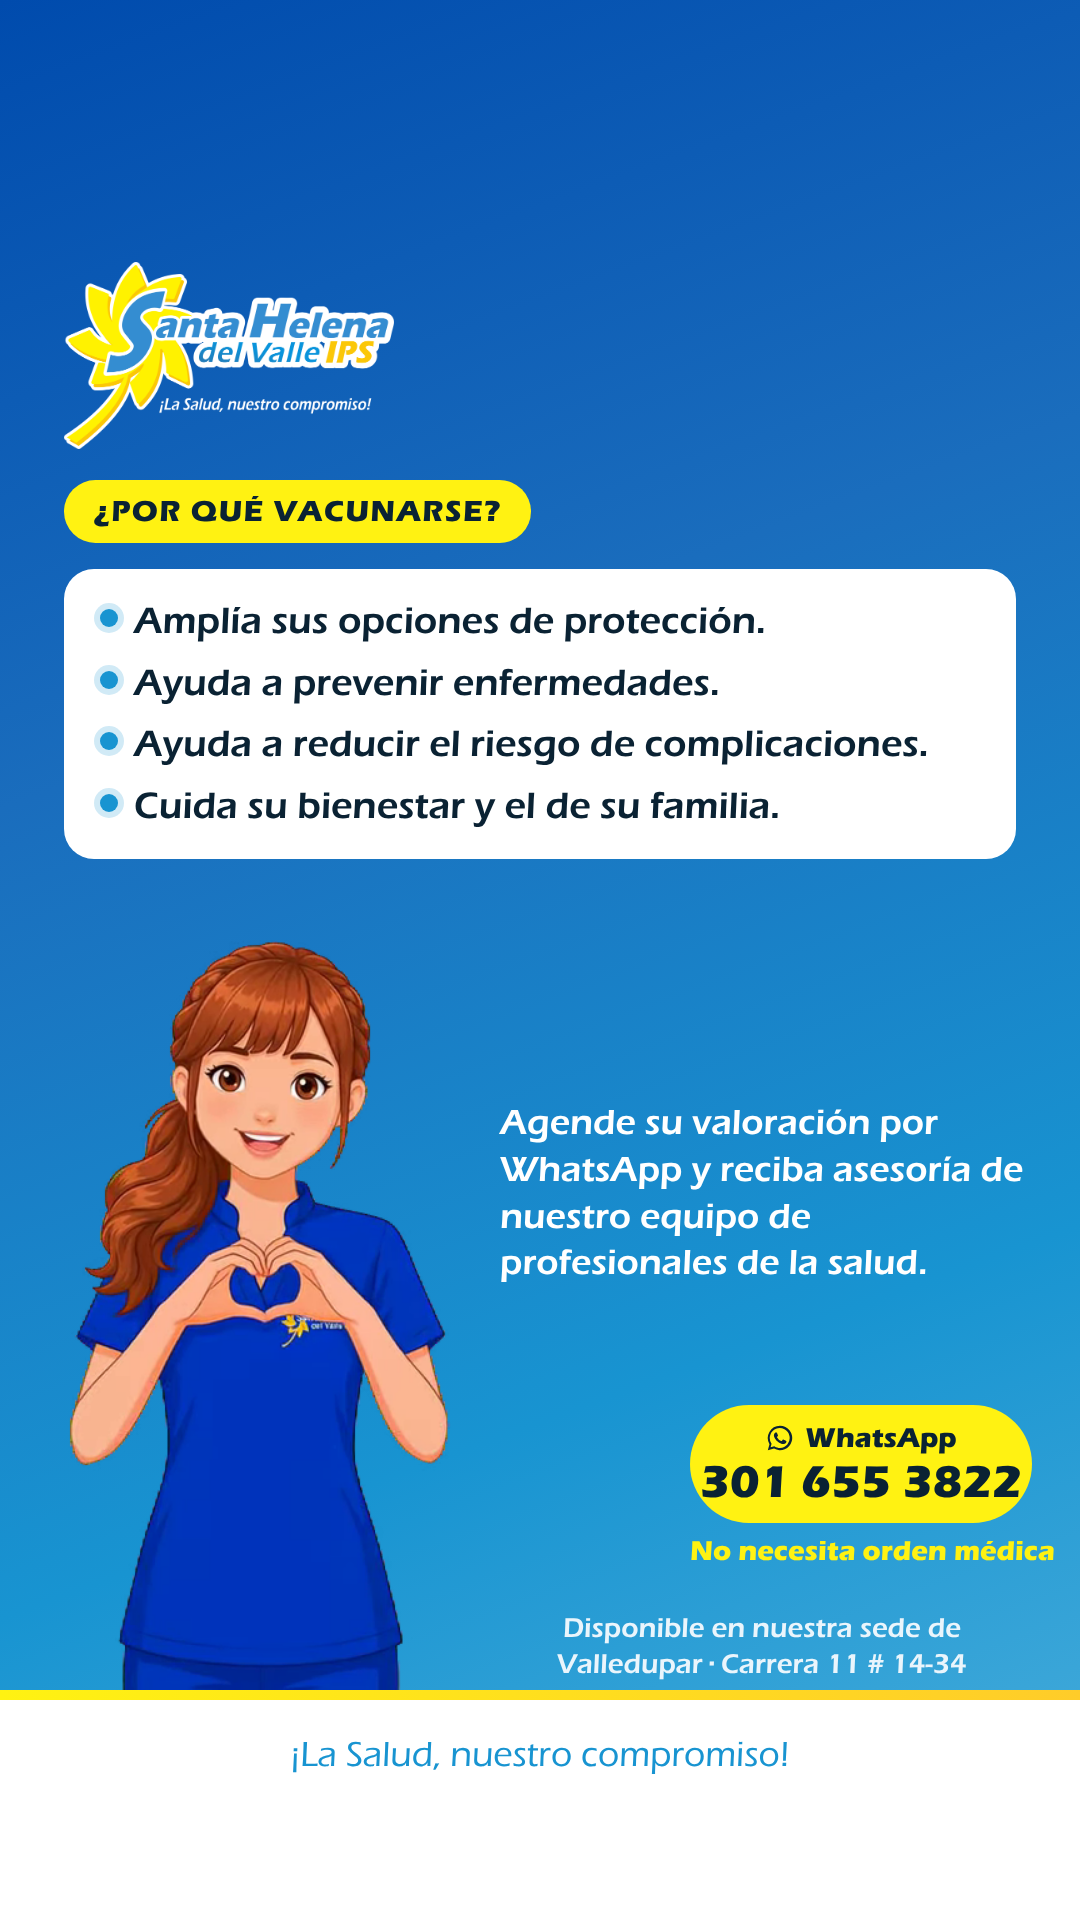
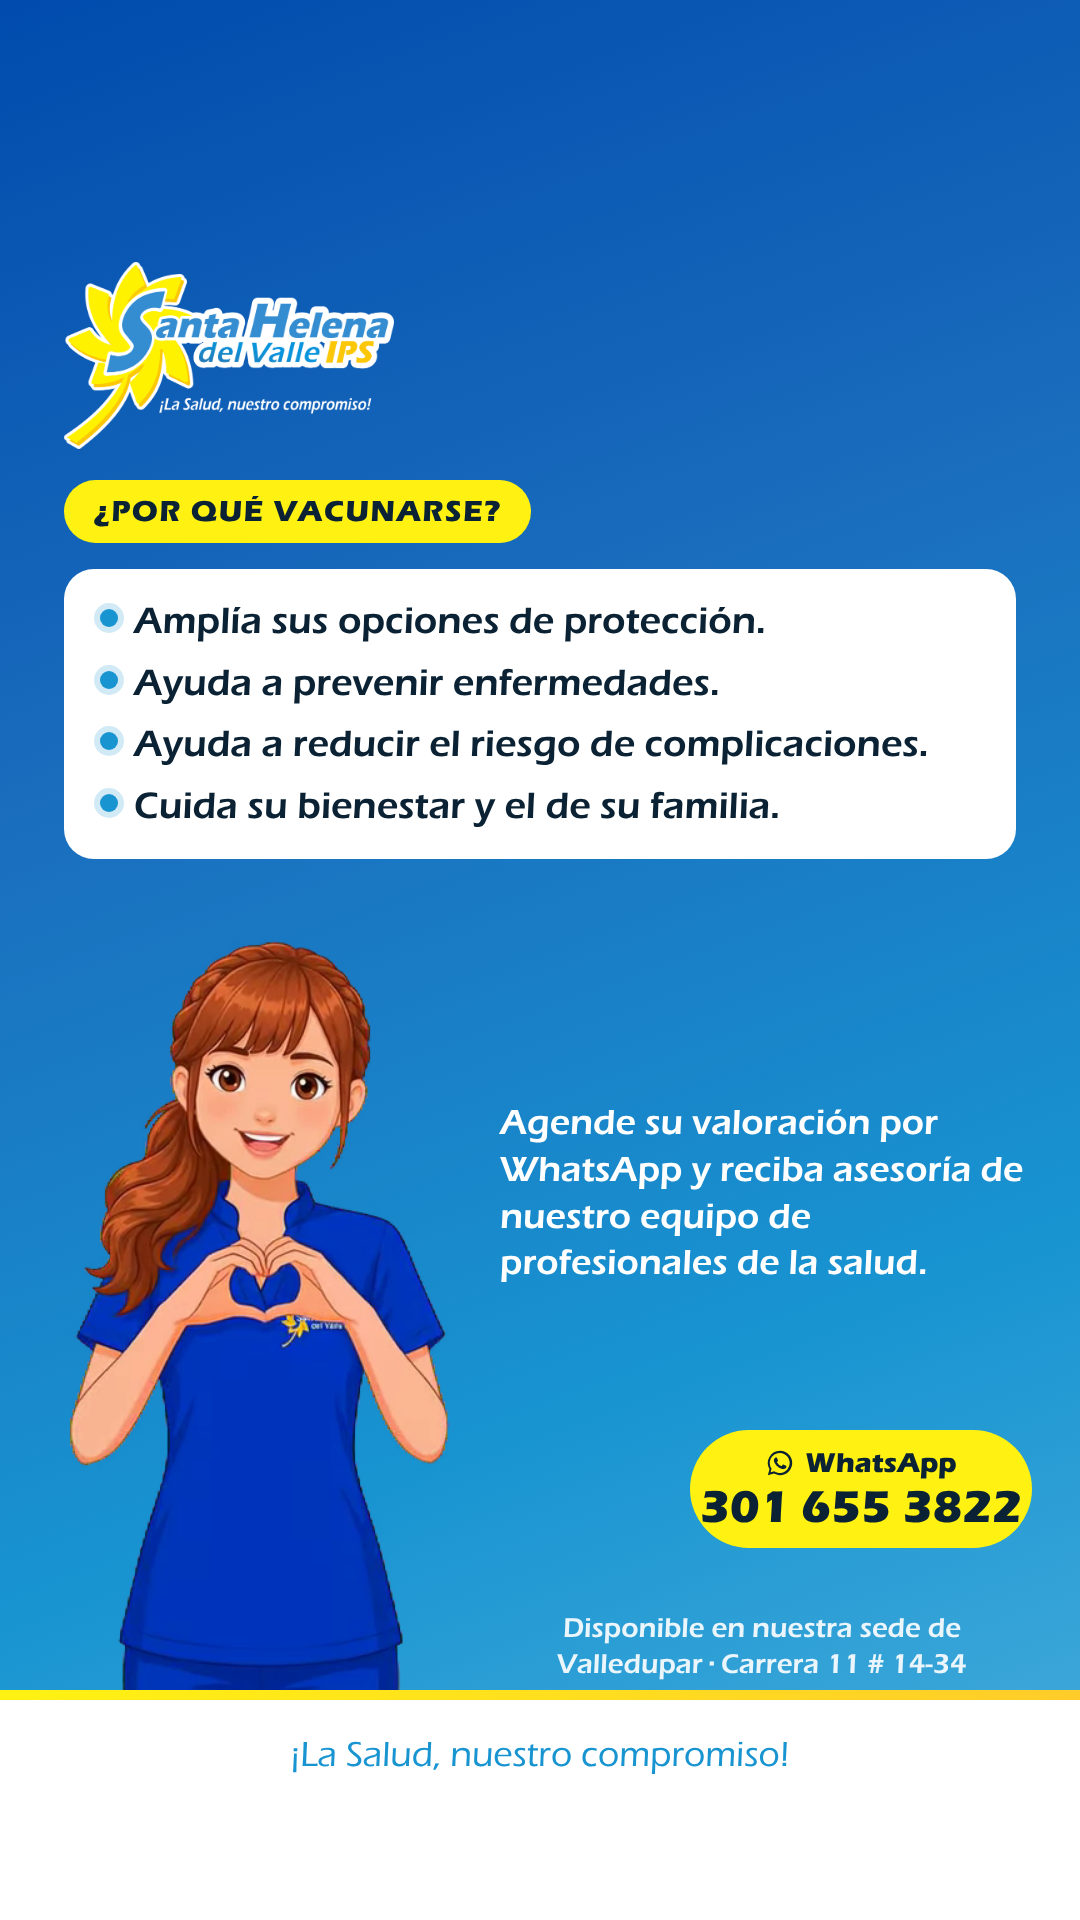
Historia vacunas: sin «No necesita orden médica»
Claude-Session: https://claude.ai/code/session_01KgBCaN2Nb7mn6jAyyriR7q

Changed region(s): [[0.6417, 0.7188, 0.9778, 0.8125]]

diff --git a/entregas/creativo-instagram/2026-11-20-historia-vacunas-particulares/plantilla/historia.html b/entregas/creativo-instagram/2026-11-20-historia-vacunas-particulares/plantilla/historia.html
@@ -64,8 +64,7 @@ if(p===3){
   html+=`</div>`;
   const top=v.p3.puntos.length?1100:700;
   html+=`<div class="der" style="top:${top}px"><p class="llamado">${esc(v.p3.llamado)}</p></div>`;
-  html+=`<div class="der" style="top:1405px;left:690px;right:48px"><div class="pill"><small>${WA} WhatsApp</small><b>${esc(C.whatsapp)}</b></div>
-         <p class="sinorden" style="margin-top:12px">${esc(C.sinOrden)}</p></div>
+  html+=`<div class="der" style="top:1430px;left:690px;right:48px"><div class="pill"><small>${WA} WhatsApp</small><b>${esc(C.whatsapp)}</b></div></div>
          <p class="der sede" style="top:1610px;left:500px">${esc(C.sede)}</p>`;
 }
 if(POSE[p]) html+=`<img class="hel" src="img/helenita-${POSE[p]}.png">`;

diff --git a/entregas/creativo-instagram/2026-11-20-historia-vacunas-particulares/plantilla/textos.js b/entregas/creativo-instagram/2026-11-20-historia-vacunas-particulares/plantilla/textos.js
@@ -3,7 +3,6 @@
 // WhatsApp 301 655 3822: EXCLUSIVO de esta historia semanal.
 const COMUN = {
   whatsapp: "301 655 3822",
-  sinOrden: "No necesita orden médica",
   sede: "Disponible en nuestra sede de Valledupar · Carrera 11 # 14-34",
   eslogan: "¡La Salud, nuestro compromiso!"
 };

diff --git a/entregas/creativo-instagram/2026-11-20-historia-vacunas-particulares/LEAME.md b/entregas/creativo-instagram/2026-11-20-historia-vacunas-particulares/LEAME.md
@@ -15,3 +15,4 @@ Encargo directo del Agente Copies Redes con textos aprobados por Nicolas
 2. Ejecutar `bash plantilla/crear-imagenes.sh B1` (o B2, B3). Crea la carpeta `B1/` con los 3 PNG.
    Necesita las fuentes Eras instaladas (no se guardan aquí por licencia) y Node con Playwright.
 - `plantilla/historia.html?v=A&p=1` muestra cada pantalla en el navegador. Helenita: cuadros existentes, sin gasto de créditos.
+- Sin la línea «No necesita orden médica» (la quitó Nicolas el 20 nov).
